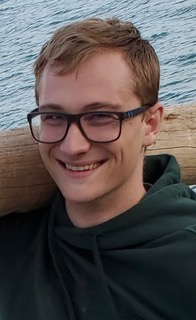
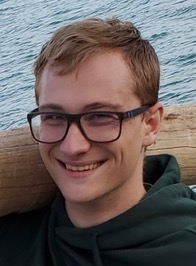
update

diff --git a/index.html b/index.html
@@ -1766,7 +1766,7 @@
     
     
       
-      <a href="/author/matthew-regehr/"><img class="avatar avatar-circle" src="/author/matthew-regehr/avatar_huad3cbc7781b0607bfb099d6daf27fe26_21021_270x270_fill_q90_lanczos_center.jpg" alt="Avatar"></a>
+      <a href="/author/matthew-regehr/"><img class="avatar avatar-circle" src="/author/matthew-regehr/avatar_hu8c7650a639665d75f67dcaaf485179fe_38225_270x270_fill_q90_lanczos_center.jpg" alt="Avatar"></a>
     
 
     <div class="portrait-title">

diff --git a/people/index.html b/people/index.html
@@ -1763,7 +1763,7 @@
 
       
       
-      <img class="avatar avatar-circle" src="/author/matthew-regehr/avatar_huad3cbc7781b0607bfb099d6daf27fe26_21021_270x270_fill_q90_lanczos_center.jpg" alt="Matthew Regehr">
+      <img class="avatar avatar-circle" src="/author/matthew-regehr/avatar_hu8c7650a639665d75f67dcaaf485179fe_38225_270x270_fill_q90_lanczos_center.jpg" alt="Matthew Regehr">
       
 
       <div class="portrait-title">

diff --git a/author/matthew-regehr/index.html b/author/matthew-regehr/index.html
@@ -608,7 +608,7 @@
 
       
       
-      <img class="avatar avatar-circle" src="/author/matthew-regehr/avatar_huad3cbc7781b0607bfb099d6daf27fe26_21021_270x270_fill_q90_lanczos_center.jpg" alt="Matthew Regehr">
+      <img class="avatar avatar-circle" src="/author/matthew-regehr/avatar_hu8c7650a639665d75f67dcaaf485179fe_38225_270x270_fill_q90_lanczos_center.jpg" alt="Matthew Regehr">
       
 
       <div class="portrait-title">
